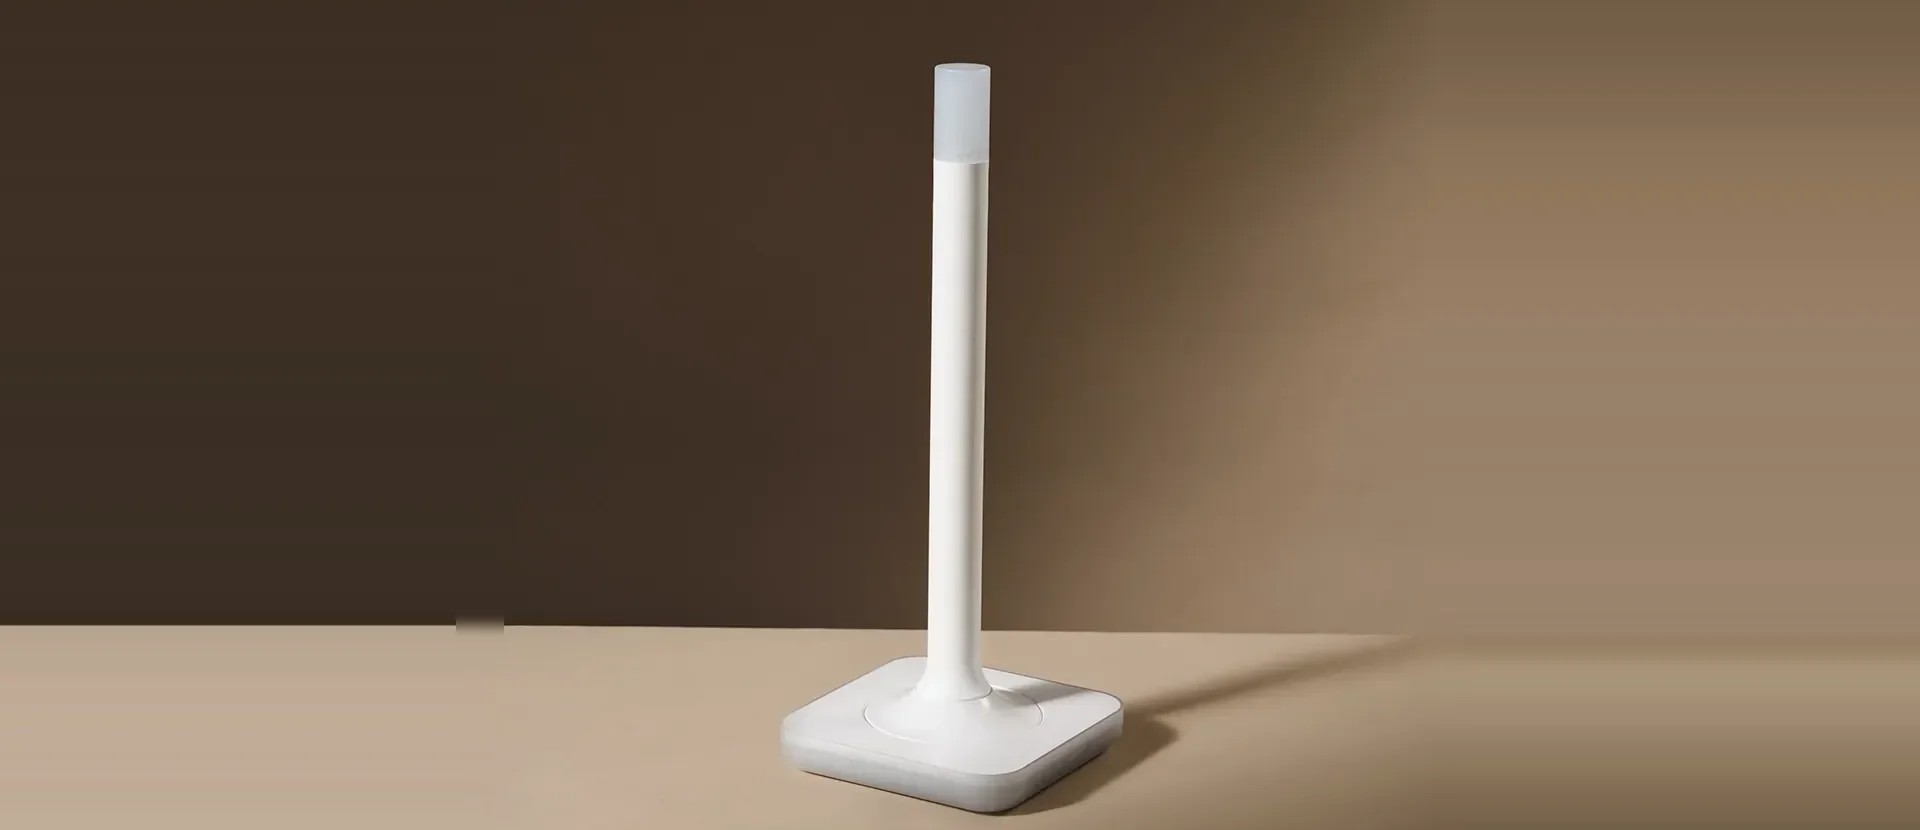
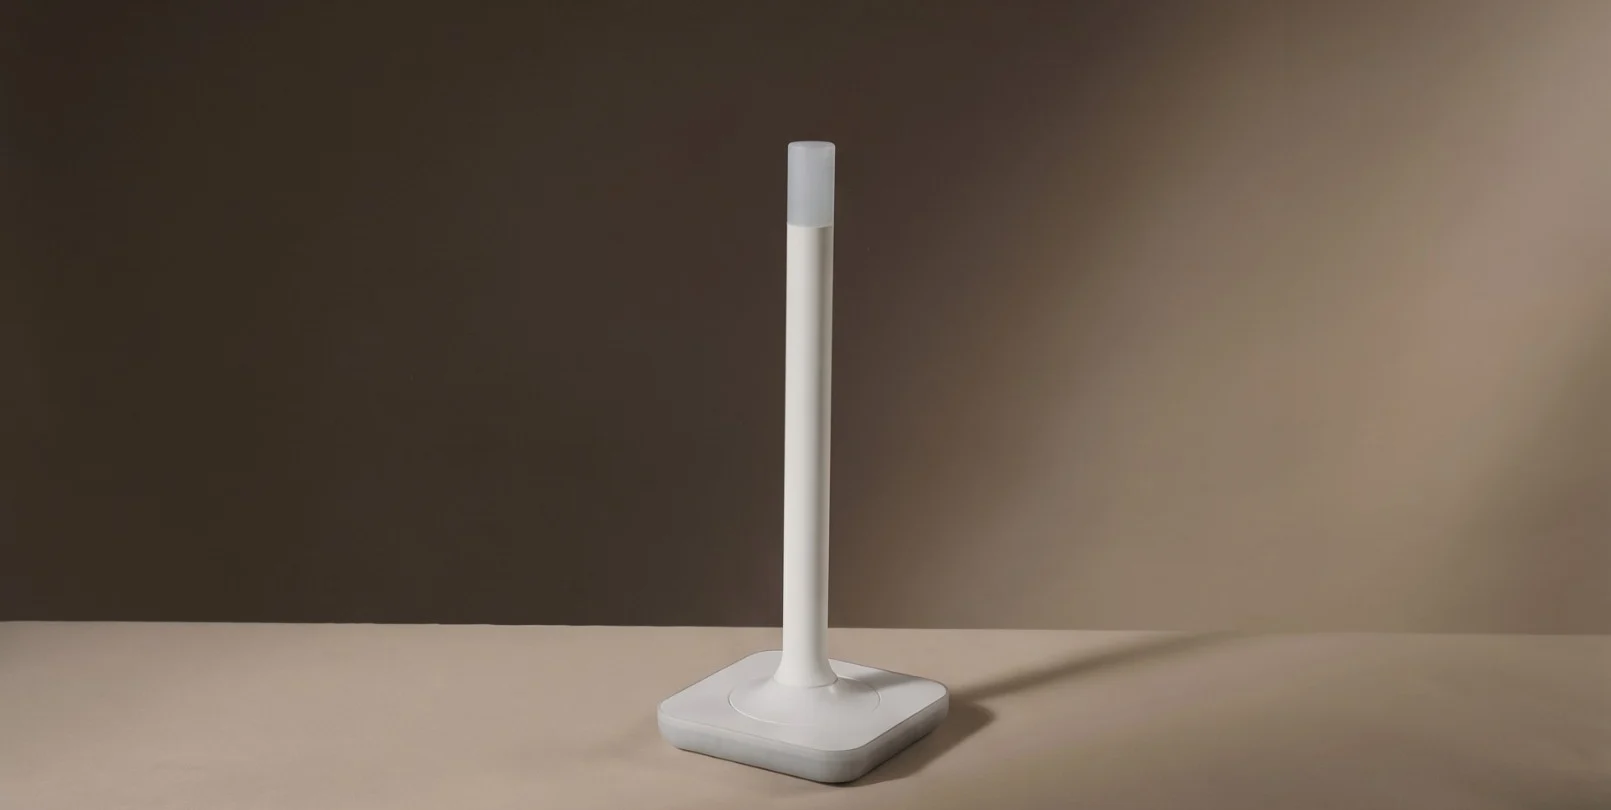
Replace ZBT-2 and ZWA-2 card photos with clean originals
The previous photos had artifacts from being stretched sideways. The new
ones are wide crops of the supplied portrait shots (no stretching), and
single-column cards on tablets are a little taller so the ZWA-2 antenna
always fits.

Claude-Session: https://claude.ai/code/session_01K9fPMrE7Le5buA6nAMmFAQ

diff --git a/styles/_category-cards.scss b/styles/_category-cards.scss
@@ -7,16 +7,16 @@
 // in the order the cards appear on the home page (whatever order Zendesk returns
 // them in). Categories without an entry come last, as plain gray cards.
 //
-// Tall devices set `floor`: their photo (cropped just below the device and
-// widened with its own backdrop) stops above the boxes so the whole device stays
+// Tall devices set `floor`: their photo (a wide crop from just above the device
+// to just below its base) stops above the boxes so the whole device stays
 // visible, and the space behind the boxes gets a gradient matching the photo's
 // bottom edge.
 $category-cards: (
   // The phone sits right of centre in this photo; keep it in view on narrow cards
   "Cloud": (image: url($assets-category-cloud-webp), color: var(--nc-color-gray), position: 90% 30%),
   "Green": (image: url($assets-category-green-webp), color: var(--nc-color-green)),
-  "Connect ZBT-2": (image: url($assets-category-connect-zbt-2-webp), color: var(--nc-color-tin), floor: (#cdb7a1, #89755c)),
-  "Connect ZWA-2": (image: url($assets-category-connect-zwa-2-webp), color: var(--nc-color-tin), floor: (#c1ae99, #716049)),
+  "Connect ZBT-2": (image: url($assets-category-connect-zbt-2-webp), color: var(--nc-color-tin), floor: (#beac9e, #897764)),
+  "Connect ZWA-2": (image: url($assets-category-connect-zwa-2-webp), color: var(--nc-color-tin), floor: (#ad9b8e, #625546)),
   "Voice Preview Edition": (image: url($assets-category-voice-preview-edition-webp), color: var(--nc-color-orange)),
   "Connect ZBT-1": (image: url("https://www.home-assistant.io/images/frontpage/feature-zbt1.jpg"), color: var(--nc-color-tin)),
   "Yellow": (image: url("https://www.home-assistant.io/images/frontpage/yellow-frontpage.jpg"), color: var(--nc-color-sun)),
@@ -37,7 +37,9 @@ $home-sidebar-width: 1280px;
   grid-template-columns: minmax(0, 1fr);
 
   // Single wide cards would crop the device photos too much, so cap their width
+  // and give them a little more height (the tall ZWA-2 needs it)
   @include tablet {
+    grid-auto-rows: minmax(32rem, auto);
     grid-template-columns: minmax(0, 40rem);
   }
 }
@@ -111,8 +113,8 @@ $home-sidebar-width: 1280px;
         $floor: map-get($card, floor);
         background-image: linear-gradient(90deg, nth($floor, 1), nth($floor, 2));
 
-        // The photo is pre-widened with its plain backdrop, so at any card width
-        // it can be scaled to its full height and the whole device stays in view
+        // The photo is a wide crop with plain backdrop either side, so at any card
+        // width it can be scaled to its full height and the whole device stays in view
         &::before {
           background: map-get($card, image) center bottom / cover no-repeat;
           content: "";

diff --git a/style.css b/style.css
@@ -6974,6 +6974,7 @@ main > .container > h2,
 }
 @media (min-width: 768px) {
   .category-cards {
+    grid-auto-rows: minmax(32rem, auto);
     grid-template-columns: minmax(0, 40rem);
   }
 }
@@ -7040,7 +7041,7 @@ main > .container > h2,
 .category-card[data-name="Home Assistant Connect ZBT-2"] {
   --card-title-color: var(--nc-color-tin);
   order: 3;
-  background-image: linear-gradient(90deg, #cdb7a1, #89755c);
+  background-image: linear-gradient(90deg, #beac9e, #897764);
 }
 .category-card[data-name="Home Assistant Connect ZBT-2"]::before {
   background: url($assets-category-connect-zbt-2-webp) center bottom/cover no-repeat;
@@ -7056,7 +7057,7 @@ main > .container > h2,
 .category-card[data-name="Home Assistant Connect ZWA-2"] {
   --card-title-color: var(--nc-color-tin);
   order: 4;
-  background-image: linear-gradient(90deg, #c1ae99, #716049);
+  background-image: linear-gradient(90deg, #ad9b8e, #625546);
 }
 .category-card[data-name="Home Assistant Connect ZWA-2"]::before {
   background: url($assets-category-connect-zwa-2-webp) center bottom/cover no-repeat;
